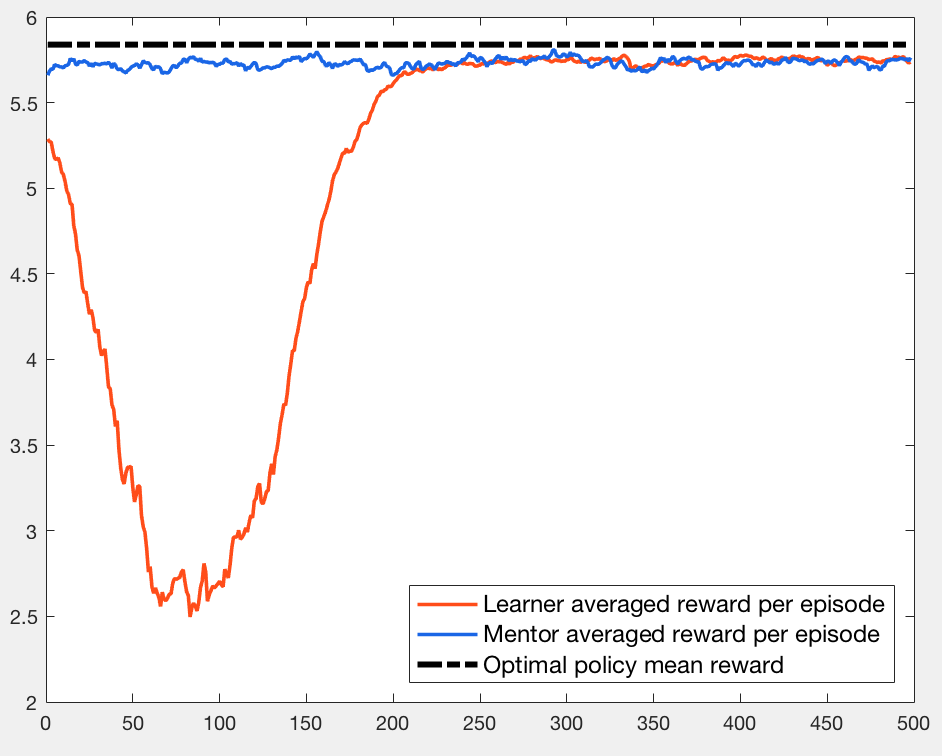
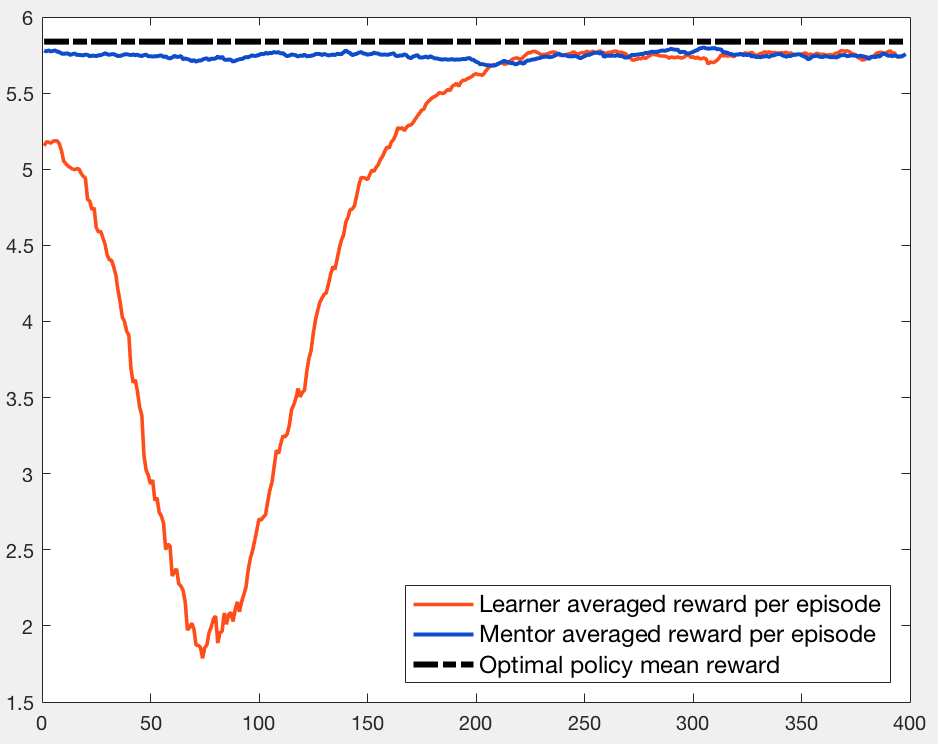
Adds figure + small report change

Changed region(s): [[0.0, 0.0, 0.9893, 0.9892]]

diff --git a/code/misc/complianceplots.m b/code/misc/complianceplots.m
@@ -13,17 +13,18 @@ addpath(genpath('data/'));
 %% loads data 
 %load('opt_compliance');
 load('subopt1_compliance');
-load('subopt2_compliance');
-load('subopt3_compliance');
+%load('subopt2_compliance');
+%load('subopt3_compliance');
 load('optimal_ar');
+load('sarsa_mentor_ar.mat');
 optimal_ar = cum_reward_per_episode;
 
 
 %% plots
 n = min([size(learner_ar,1),size(optimal_ar,1),size(mentor_ar,1)])-1;
 p1 = plot(lpf(learner_ar(1:n),0.1),'LineWidth',1.8,'Color',[1,0.3,0.1]); hold on;
-p2 = plot(lpf(mentor_ar(1:n),0.2),'Color',[0.05,0.3,0.8],'LineWidth',2);
+p2 = plot(lpf(mentor_ar(1:n),0.05),'Color',[0.05,0.3,0.8],'LineWidth',2);
 p3 = plot(mean(optimal_ar)*ones(n,1),'-.','LineWidth',3,'Color','black');
-p4 = plot(lpf(mentor_learning_ar(1:n),0.3),'LineWidth',2,'Color',[0.4,0.8,1]);
-h = legend([p1,p2,p3,p4],'Learner averaged reward per episode','Mentor averaged reward per episode','Optimal policy mean reward','Mentor learning curve','Location','SouthEast');
+%p4 = plot(lpf(mentor_learning_ar(1:n),0.3),'LineWidth',2,'Color',[0.4,0.8,1]);
+h = legend([p1,p2,p3],'Learner averaged reward per episode','Mentor averaged reward per episode','Optimal policy mean reward','Mentor learning curve','Location','SouthEast');
 set(h,'FontSize',12);

diff --git a/code/methods/naive_imitation_learning.m b/code/methods/naive_imitation_learning.m
@@ -77,8 +77,8 @@ while (k<max_iter && delta>stop_criterion)
     end
     deltas(k) = delta;
     cum_reward_per_episode(k) = cum_reward/mini_batch_size;
-    k = k+1;
-    p = 0.997*p;
+    k = k+1
+    p = 0.99*p;
 end
 
 pi = generate_greedy_policy(mdp.states,counts);
@@ -98,7 +98,7 @@ legend('Learning curve for policy value iteration');
 % plot the rewards per episode averaged per minibatch
 subplot(1,2,2);
 plot(cum_reward_per_episode(1:k-1),'b','LineWidth',2); hold on;
-%mentor_cum_reward_per_episode = compute_average_return(mdp,pi_m,k-1); plot(1:k-1,mentor_cum_reward_per_episode,'g','LineWidth',2);
+mentor_cum_reward_per_episode = compute_average_return(mdp,pi_m,k-1); plot(1:k-1,mentor_cum_reward_per_episode,'g','LineWidth',2);
 xlabel('Number of iterations');
 ylabel('Average reward');
 legend('Average reward per episode per minibatch','Greedy mentor average reward per episode per minibatch','Location','southeast');

diff --git a/code/main.m b/code/main.m
@@ -30,7 +30,6 @@ tic
 % with Q-learning
 %[pi_star,mdp] = qlearning_solve_mdp(mdp);
 % with SARSA
-%
 %[pi_star,mdp] = sarsa_solve_mdp(mdp);
 % with SARSA(lambda) 
 %[pi_star,mdp] = sarsa_lambda_solve_mdp(mdp);
@@ -41,7 +40,7 @@ toc
 %draw_policy(pi_star,mdp.states);
  
 %% imitation reinforcement learning methods
-  load('misc/policy/subopt_policy_3','pi'); pi_m = pi;
+  load('misc/policy/subopt_policy_1','pi'); pi_m = pi;
   [pi_star,mdp] = naive_imitation_learning(pi_m, mdp);
 
 

diff --git a/code/utils/configure_mdp.m b/code/utils/configure_mdp.m
@@ -76,8 +76,8 @@ switch model_name
         mdp.ql_lambda.init_lr = 0.8;
         mdp.ql_lambda.lambda = 0.8;
         % Naive imitation learning 
-        mdp.naive_il.max_iter = 500;
-        mdp.naive_il.init_temp = 0.7;
+        mdp.naive_il.max_iter = 400;
+        mdp.naive_il.init_temp = 2;
         mdp.naive_il.p = 0.9;
         mdp.naive_il.temp_mult = 0.95;
         mdp.naive_il.stop_criterion = -0.1;
